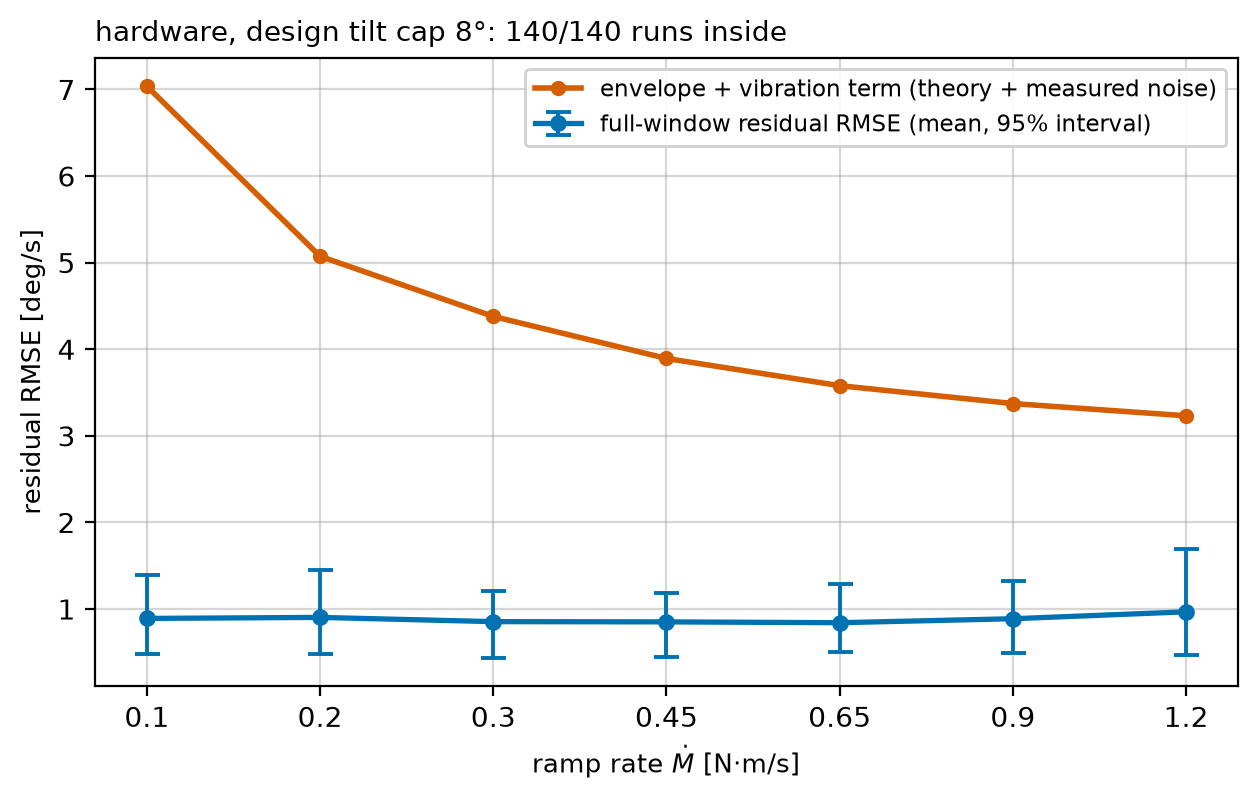
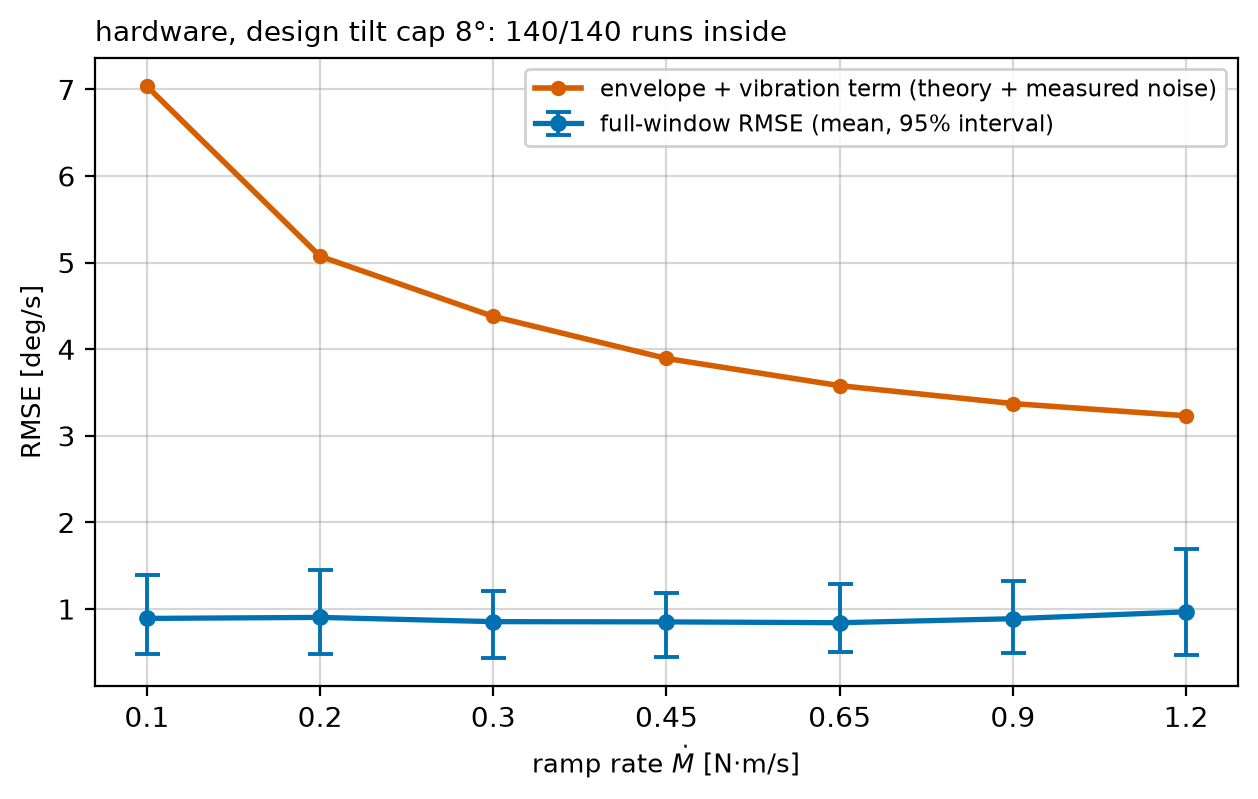
Drop the redundant word from the RMSE labels
The E already says error; the label reads full-window RMSE.

Claude-Session: https://claude.ai/code/session_01BM6bcsm1ZtLtgegEeuFDVS

Changed region(s): [[0.589, 0.1202, 0.93, 0.1802], [0.0, 0.3004, 0.031, 0.6308]]

diff --git a/analysis/bound_final_figs.py b/analysis/bound_final_figs.py
@@ -66,12 +66,12 @@ def draw(rate, res, cap, title, cap_label, fname):
                 fmt='o-', lw=1.9, ms=5.0, color='#0072B2',
                 ecolor='#0072B2', elinewidth=1.4, capsize=4.5,
                 capthick=1.4, zorder=3,
-                label='full-window residual RMSE (mean, 95% interval)')
+                label='full-window RMSE (mean, 95% interval)')
     ins = int(np.sum(~bad))
     ax.set_xticks(range(len(ur)))
     ax.set_xticklabels([f'{v:g}' for v in ur])
     ax.set_xlabel(r'ramp rate $\dot M$ [N·m/s]', fontsize=9.5)
-    ax.set_ylabel('residual RMSE [deg/s]', fontsize=9.5)
+    ax.set_ylabel('RMSE [deg/s]', fontsize=9.5)
     ax.grid(alpha=0.4, lw=0.8, color='0.6')
     ax.set_axisbelow(True)
     ax.set_title(f'{title}: {ins}/{len(res)} runs inside',
